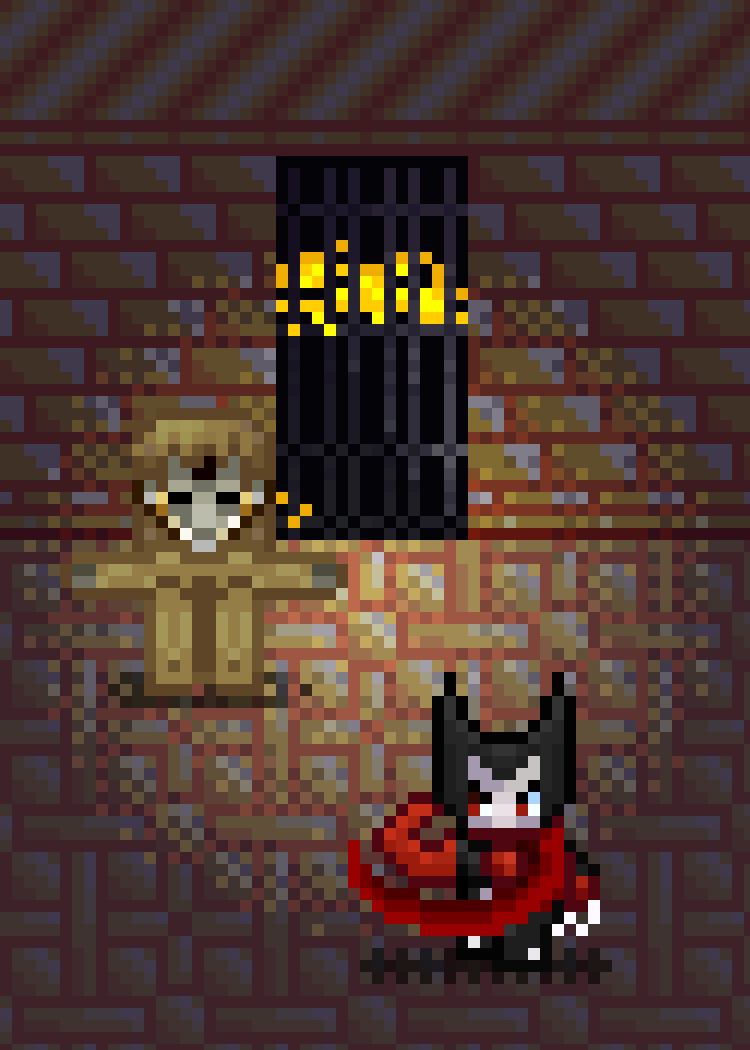
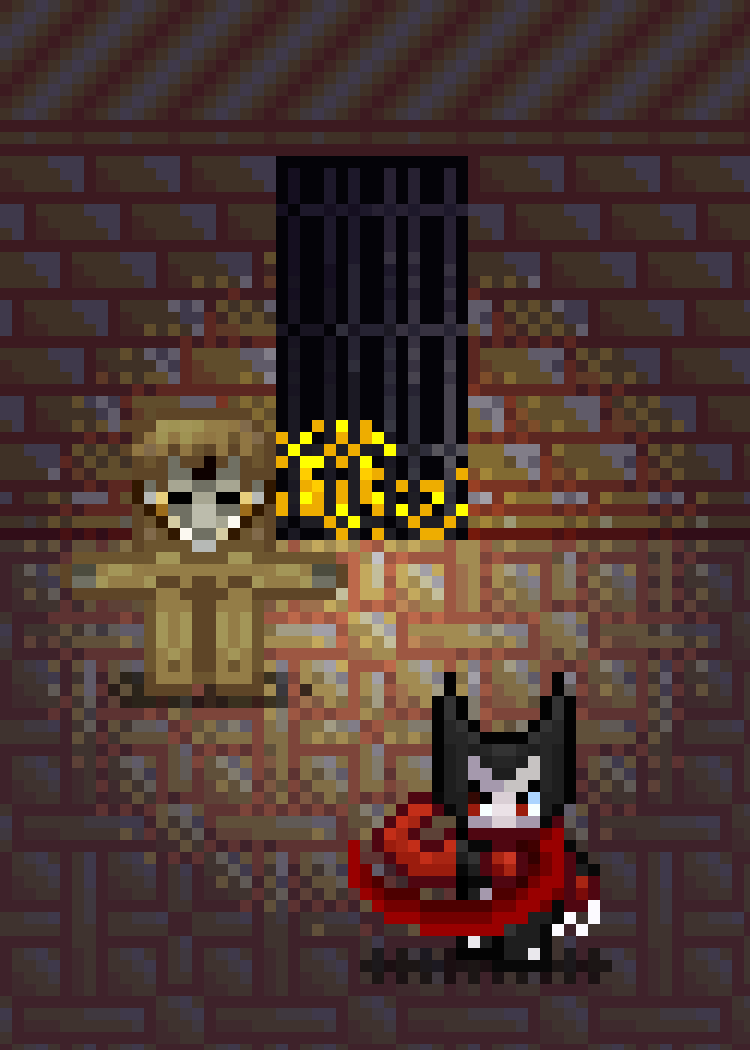
Runde 6: Gegner-Sleeves Zwischenstand
Claude-Session: https://claude.ai/code/session_01TEnvTzH2xD44R6Unjv7vDo

Changed region(s): [[0.368, 0.3962, 0.6133, 0.5181], [0.368, 0.2133, 0.644, 0.3352], [0.6133, 0.4267, 0.644, 0.4571]]

diff --git a/data/sleeve-proposals/runde6/generator/s25_initiation_rite.py b/data/sleeve-proposals/runde6/generator/s25_initiation_rite.py
@@ -1,32 +1,83 @@
 # -*- coding: utf-8 -*-
 """25 Initiation Rite – Gegner „Join our Cult!“ (sample-Structure Deck Join our Cult), Held: Klaus, the Cult Leader.
 
-Idee (Porträt/Ruhemoment im Kultkeller): Klaus – der Kapuzenmann mit blauem Haar, rotem Auge und erhobenem
-Opferdolch – steht groß in der Mitte seines Kellergewölbes, vor ihm kniet der braunhaarige Neuling seiner
-Base-Karte („Join our Cult!“). Ringsum stehen seine Kultisten in schwarzen Kutten, an der Wand lodern zwei Fackeln,
-rechts liegt das Buch auf dem Lesepult. Ein fahles rotes Glühen steigt unter den beiden aus dem Boden
-(Decay Magic, ohne Pentagramm), sonst liegt das Gewölbe im Dunkeln.
+Idee (Porträt-Close-up über der Zeremonie): Aus dem Dunkel über seinem Kultkeller erhebt sich Klaus groß als
+Brustbild – Kapuze, blaues Haar, rotes Auge, erhobener Opferdolch –, links und rechts von ihm lodern die zwei
+Wandfackeln. Klein darunter auf dem Steinboden des Gewölbes kniet der braunhaarige Neuling seiner Base-Karte in
+einem fahlen roten Decay-Glühen („Join our Cult!“), flankiert von zwei gleich aufgestellten Reihen seiner
+Kultisten in schwarzen Kutten. Kein Pentagramm.
 
 Quellen (MotiveGrailWar.xcf):
-  Ebene 526 „Kultisten“, rechte Gruppe (Box x 279–297, y 123–154): Klaus (Kapuze, Dolch) mit dem knienden
-      Neuling – genau die Figurengruppe der Base-Karte „Klaus, the Cult Leader“ (Kartenszene Sichtbar #48 = Ebene 738,
-      Lage 222,66; die Karte zeigt diese Gruppe weichgezeichnet und vergrößert, daher kein Pixelvergleich möglich,
-      Form/Farben/Anordnung stimmen überein). Derselbe Kapuzenkopf erscheint auf „Clausss, the No-Nonsense Cultist“.
-  Ebene 532 „Ebene #145“ – Kultkeller mit Fackeln, Lesepult und fünf Kultisten (Ausschnitt x 228–353, y 48–223);
-      der Ritualkreis samt Figuren in der Mitte (x 268–326, y 125–186) wurde mit der Bodenkachel des Gewölbes
-      (16×16, x 282–298, y 108–124, periodisch ausgerichtet) übermalt.
-Selbst gezeichnet: Abdunklung (Decke/Vordermauer ins Dunkel), Fackelschein, rotes Bodenglühen, Bodenschatten.
+  Ebene 526 „Kultisten“, rechte Gruppe (Box x 279–297, y 123–154) = die Figurengruppe der Base-Karte
+      „Klaus, the Cult Leader“ (Kartenszene Sichtbar #48 = Ebene 738, Lage 222,66; die Karte zeigt sie
+      weichgezeichnet/vergrößert). Auf der Karte existiert von Klaus nur der Kopf mit Kapuze, Dolch und Hand –
+      sein Körper steckt hinter dem Neuling (Ebenen geprüft: scene_layers/card_region_layers der Szene 738 liefern
+      keine weitere Klaus-Ebene). Daher:
+        – Klaus-Brustbild = Zeilen 0–17 der Gruppe ohne die Haarpixel des Neulings; die so frei werdenden Stellen
+          innerhalb der Kapuzen-Silhouette mit dem dunklen Kapuzeninneren (32,32,32) gefüllt und die Kutte in den
+          Kapuzenfarben (Umriss 25/Saum 82/Fläche 42) um 6 Zeilen nach unten fortgesetzt, unten ins Dunkel
+          aufgelöst (leichte Ergänzung, Farben und Pixelgröße des Sprites).
+        – Neuling = Zeilen 12–30 der Gruppe ohne Klaus-Pixel (vollständig, er steht vor Klaus).
+      Linke Gruppe derselben Ebene (Box x 249–263, y 116–171): drei Kultisten hintereinander; rechts gespiegelt und
+      mit umgefärbtem Haar als zweite Reihe (symmetrische Aufstellung).
+  Ebene 532 „Ebene #145“ – Kultkeller mit brennenden Fackeln (Ausschnitt x 234–359, y 26–201); Ritualkreis
+      (x 268–326, y 125–186) mit der Bodenkachel (16×16, x 282–298, y 108–124) übermalt, die fünf eingebauten
+      Kultisten per 16-px-Periode aus den Nachbarspalten übermalt.
+Selbst gezeichnet: Dunkelheit über dem Gewölbe, Fackelschein, rotes Bodenglühen, Bodenschatten.
 
 Skalierung:
-  Hintergrund (Gewölbe, Kultisten, Fackeln, Licht)          – 2× (Raster 125×175)
-  Vordergrund (Klaus + Neuling 18×31 → 90×155, Schatten)    – 5× (Raster 50×70)
+  Hintergrund (Gewölbe, Neuling, Kultistenreihen, Licht)   – 2× (Raster 125×175)
+  Vordergrund (Klaus-Brustbild 18×24 → 144×192)            – 8× (Raster 32×44)
 """
 import math
 import numpy as np
 from ekit_25_30 import *  # noqa
 
 GW = 'MotiveGrailWar'
-klaus = sprite('o25_klaus_group', GW, [526], box=(279, 123, 297, 154))
+grp = sprite('o25_klaus_group', GW, [526], box=(279, 123, 297, 154))        # 18×31
+cult = sprite('o25_cultists', GW, [526], box=(249, 116, 263, 171))          # 14×55
+
+NOVICE = {(48, 7, 0), (188, 89, 56), (89, 31, 0), (229, 130, 81), (147, 64, 23), (237, 155, 122),
+          (245, 171, 147), (48, 23, 0), (51, 0, 0)}
+
+
+def is_novice_px(p):
+    return tuple(int(v) for v in p[:3]) in NOVICE
+
+
+# ---------------- Klaus-Brustbild
+bust = np.zeros((24, 18, 4), np.uint8)
+for y in range(18):
+    for x in range(18):
+        p = grp[y, x]
+        if p[3] and not is_novice_px(p):
+            bust[y, x] = p
+HOOD_IN, OUT, RIM, FILL, FILL2 = (32, 32, 32), (25, 25, 25), (82, 82, 82), (42, 42, 42), (50, 50, 50)
+for y in range(12, 18):                          # Löcher (Haar des Neulings) innerhalb der Kapuze füllen
+    xs = [x for x in range(18) if bust[y, x, 3]]
+    lo = 2 if y >= 16 else min(xs)
+    for x in range(lo, 17 if y >= 13 else max(xs)):
+        if not bust[y, x, 3]:
+            bust[y, x] = (*HOOD_IN, 255)
+for y in range(18, 24):                          # Kutte: Schultern nach unten fortgesetzt
+    lo, hi = max(0, 2 - (y - 17)), 17
+    for x in range(lo, hi + 1):
+        c = FILL if (x + y) % 4 else FILL2
+        if x == lo or x == hi: c = OUT
+        elif x == lo + 1: c = RIM
+        bust[y, x] = (*c, 255)
+for y in range(19, 24):                          # unten ins Dunkel auflösen (gedithert)
+    for x in range(18):
+        if bay(x, y) < (y - 18) / 5.5:
+            bust[y, x, 3] = 0
+
+# ---------------- Neuling (kniend)
+novice = np.zeros((19, 18, 4), np.uint8)
+for y in range(12, 31):
+    for x in range(18):
+        p = grp[y, x]
+        if p[3] and (y >= 18 or is_novice_px(p)):
+            novice[y - 12, x] = p
 
 # ================================================================ 2×: Kultkeller
 hall = layer(GW, 532).copy()
@@ -34,53 +85,67 @@ tile = hall[108:124, 282:298].copy()
 for y in range(125, 186):
     for x in range(268, 326):
         hall[y, x] = tile[(y - 108) % 16, (x - 282) % 16]
-X0, Y0 = 228, 48
+boxes = [((246, 112, 266, 142), (16, 32, -16)), ((230, 126, 250, 160), (16, 32, 48)),
+         ((325, 106, 347, 174), (-16, -32, -48))]
+M = np.zeros(hall.shape[:2], bool)
+for (x0, y0, x1, y1), _ in boxes: M[y0:y1, x0:x1] = True
+src = hall.copy()
+for (x0, y0, x1, y1), dxs in boxes:
+    for y in range(y0, y1):
+        for x in range(x0, x1):
+            for dx in dxs:
+                if not M[y, x + dx]:
+                    hall[y, x] = src[y, x + dx]; break
+X0, Y0 = 234, 26
 bw, bh = grid(2)
 bg = hall[Y0:Y0 + bh, X0:X0 + bw].copy()
 bg[..., 3] = 255
-# Fackeln (Flammen) und Klaus' Standort in 2×-Rasterkoordinaten
-TORCH = [((256 - X0), (96 - Y0)), ((336 - X0), (96 - Y0))]
-KX, KY = 62.5, 131                    # Fußpunkt der Gruppe (Canvas 125, 262)
-rgb = bg[..., :3].astype(float)
-out = np.zeros_like(rgb)
+TORCH = [(256 - X0, 96 - Y0), (336 - X0, 96 - Y0)]
+NX, NY = 62.5, 142                 # Fußpunkt des Neulings (Canvas 125, 284)
+out = bg[..., :3].astype(float)
 for y in range(bh):
     for x in range(bw):
-        c = rgb[y, x]
-        # Grundabdunklung, Fackelschein (warm), rotes Glühen um Klaus
-        lt = 0.42
+        lt = 0.4
         for tx, ty in TORCH:
-            d = math.hypot((x + .5 - tx) / 30, (y + .5 - ty) / 34)
+            d = math.hypot((x + .5 - tx) / 28, (y + .5 - ty) / 32)
             lt += 0.5 * math.floor(max(0, 1 - d) ** 1.3 * 4 + bay(x, y)) / 4
-        d = math.hypot((x + .5 - KX) / 40, (y + .5 - (KY - 18)) / 44)
-        rg = math.floor(max(0, 1 - d) ** 1.2 * 4 + bay(x, y)) / 4
-        c = c * min(lt, 1.0) + np.array([130, 10, 18]) * rg * .6
-        out[y, x] = c
+        d = math.hypot((x + .5 - NX) / 30, (y + .5 - (NY - 8)) / 22)
+        rg = math.floor(max(0, 1 - d) ** 1.1 * 4 + bay(x, y)) / 4
+        c = out[y, x] * min(lt, 1.0) + np.array([140, 10, 18]) * rg * .6
+        top = max(0.0, min(1.0, (46 - y) / 14))            # Dunkel über dem Gewölbe
+        q = math.floor(top * 4 + bay(x, y)) / 4
+        out[y, x] = c * (1 - q) + np.array([5, 3, 8]) * q
 bg[..., :3] = out.clip(0, 255).astype(np.uint8)
-# Flammen selbst nicht abdunkeln (Originalpixel der Fackeln zurück)
-for tx, ty in TORCH:
+for tx, ty in TORCH:                                       # Fackelflammen in Originalfarbe
     for y in range(ty - 8, ty + 3):
         for x in range(tx - 6, tx + 6):
-            src = hall[Y0 + y, X0 + x, :3].astype(int)
-            if src[0] > 180 and src[0] > src[2] + 60:
-                bg[y, x, :3] = src
+            s_ = hall[Y0 + y, X0 + x, :3].astype(int)
+            if s_[0] > 180 and s_[0] > s_[2] + 60:
+                bg[y, x, :3] = s_
 
-# Decke und Vordergrund-Mauer (fremde Nachbarräume des Kellerplans) ins Dunkel ziehen
-for y in range(bh):
-    t = max(0.0, (30 - y) / 12) if y < 30 else max(0.0, (y - 154) / 14)
-    for x in range(bw):
-        q = min(1.0, math.floor(min(t, 1) * 4 + bay(x, y)) / 4)
-        if q > 0:
-            bg[y, x, :3] = (bg[y, x, :3] * (1 - q) + np.array([6, 4, 8]) * q).astype(np.uint8)
 
-# ================================================================ 5×: Klaus mit Neuling
-fw, fh = grid(5)                         # 50×70
+def shadow(a, cx, y, w):
+    for x in range(int(cx - w / 2), int(cx + w / 2) + 1):
+        if bay(x, y) < .7: setp(a, x, y, (14, 6, 10), 170)
+
+
+# Neuling in der Mitte, zwei Kultistenreihen symmetrisch (rechts gespiegelt, Haar umgefärbt)
+shadow(bg, NX, NY, 16)
+put(bg, novice, int(NX - 9), NY - novice.shape[0] + 1)
+cult_r = flip(cult)
+hair = np.zeros(cult_r.shape[:2], bool)
+hsv = cult_r[..., :3].astype(int)
+hair = (hsv[..., 0] > hsv[..., 2] + 40) & (cult_r[..., 3] > 0)        # warme Töne = Haar/Haut
+skin = (hsv[..., 0] > 200) & (hsv[..., 1] > 150)
+cult_r = hsv_shift(cult_r, dh=-25, ds=.8, dv=.8, mask=hair & ~skin)
+CY = 152                                                     # Fußzeile der Reihen (Canvas 304)
+for cx, s in ((34, cult), (125 - 34, cult_r)):
+    shadow(bg, cx, CY, 12)
+    put(bg, s, int(cx - s.shape[1] / 2), CY - s.shape[0] + 1)
+
+# ================================================================ 8×: Klaus
+fw, fh = grid(8)                                           # 32×44
 fg = rgba(fw, fh)
-GX = 25 - klaus.shape[1] // 2            # mittig (Canvas 80–170)
-GB = 52                                  # unterste Zeile (Canvas 260–265)
-for x in range(GX + 2, GX + klaus.shape[1] - 2):
-    for dy in (0, 1):
-        if bay(x, GB + dy) < (.75 if dy == 0 else .35):
-            setp(fg, x, GB + dy, (18, 4, 8), 170)
-put(fg, klaus, GX, GB - klaus.shape[0] + 1)
+put(fg, bust, 16 - 9, 3)                                   # Canvas x 56–200, y 24–216
 
-print(finish([(bg, 2), (fg, 5)], '25_initiation_rite.png'))
+print(finish([(bg, 2), (fg, 8)], '25_initiation_rite.png'))

diff --git a/data/sleeve-proposals/runde6/generator/s35_pyre_of_the_warband.py b/data/sleeve-proposals/runde6/generator/s35_pyre_of_the_warband.py
@@ -3,7 +3,7 @@
 the Chaorc War Chief (Base).
 
 Idee: Nacht im Krater des Chaorc-Lagers (ORKLAGER seiner Kartenszene). Ganz vorn steht Calamitusk groß und vom
-Feuer hinter ihm rot umrandet; direkt hinter ihm ist sein Kriegsbanner mit dem Flammenauge in den Boden gerammt
+Feuer hinter ihm rot umrandet; links neben/hinter ihm ist sein Kriegsbanner mit dem Flammenauge in den Boden gerammt
 (auf der Heldenkarte hält er es – hier steht es hinter ihm, damit er selbst das Hauptmotiv bleibt). Weit hinten im
 Krater lodert das große Opferfeuer (Pyre Grill Master), links davon ein rot vermummter Chaorc, rechts Asriel, the
 Sapling Sacrificer (Cover-Karte) mit blutigem Opfermesser – alle mit Bodenschatten im Feuerschein. Opfer bringen,
@@ -13,7 +13,8 @@ Quellen:
   MotiveHawaii.xcf Ebene 137 „Calamitustk-Kopie“ – Base-Calamitusk, geprüft gegen Szene 132 „Sichtbar #17“
                    (Kartenbild, Lage 136,105; 11 px Abweichung nur am Bannerstab, der dort vor seiner Hand liegt);
                    138 „Calamitustk“ weicht in 152 px ab (nicht verwendet). Ebene 133 „Ebene #53“ – sein Banner
-                   (Querstange im Kartenbild vom Kartenrand verdeckt), hier einzeln hinter ihm aufgepflanzt.
+                   (Querstange im Kartenbild vom Kartenrand verdeckt), hier einzeln links hinter ihm aufgepflanzt; die Lücke im
+                   Stab (dort lag seine Hand) mit der Stabzeile darüber geschlossen.
                    Ebene 123 (Flammen) + 130 (Scheitholz-Kreuz, rechter Teil) – Lagerfeuer der Pyre-Grill-Karte.
                    Ebene 129 „Ebene #60“ – rot vermummter Chaorc. Ebene 269 „Ebene #4“ – Kachel Lagerboden (16×16)
                    und Kraterhang (16×16).
@@ -34,7 +35,8 @@ H = 'MotiveHawaii'
 rnd = random.Random(35)
 
 cala = sprite('o35_calamitusk_body', H, [137])                 # 22×21
-banner = sprite('o35_banner', H, [133])                          # 36×43
+banner = sprite('o35_banner', H, [133]).copy()                   # 36×43
+banner[36] = banner[35]            # Lücke im Stab, wo auf der Karte seine Hand lag, mit dem Stab darüber geschlossen
 def _pyre():
     logs = layer(H, 130).copy(); logs[:, :150] = 0                # nur das Scheitholz-Kreuz unter dem Feuer
     a = xcfkit.over(logs, layer(H, 123))                           # Flammen (123) liegen über dem Holz (130)
@@ -77,7 +79,7 @@ for x in range(bw):                                              # Hangfuß
 PX, PB = 62, 63                                                  # Feuer-Mitte (Spalte), Fußzeile (2×) → y 126
 glow(bg, PX, PB - 18, 62, (255, 120, 40), 0.5, ry=44)
 glow(bg, PX, PB + 6, 58, (255, 150, 60), 0.38, ry=34)
-glow(bg, 62.5, 150, 46, (200, 90, 40), 0.3, ry=22)              # Feuerlicht auf dem Boden um Calamitusk
+glow(bg, 68, 150, 46, (200, 90, 40), 0.3, ry=22)              # Feuerlicht auf dem Boden um Calamitusk
 shade_ellipse(bg, PX, PB - 0.5, 24, 2.4, 0.5)
 put(bg, pyre, PX - pyre.shape[1] // 2, PB - pyre.shape[0])
 # Chaorc links, Asriel rechts am Feuer, mit Schatten vom Feuer weg
@@ -89,11 +91,11 @@ for s_, cx, dx in ((chaorc, 28, -3), (asriel, 97, 3)):
 # ---------------- Mittelgrund 3× (84×117): aufgepflanztes Banner -------------------------------------------------
 mw, mh = grid(3)
 mg = rgba(mw, mh)
-BB = 84                                                           # Stabfuß (3×) → y 252, hinter Calamitusk
-bx = (mw - banner.shape[1]) // 2 + 3
+BB = 83                                                           # Stabfuß (3×) → y 249, links neben/hinter Calamitusk
+bx = 3                                                            # Stab bei x ≈ 62
 for y in range(BB - 1, BB + 2):                                   # Schatten am Stabfuß
-    for x in range(bx + 2, bx + 14):
-        d = ((x + .5 - bx - 7.5) / 6) ** 2 + ((y + .5 - BB) / 1.3) ** 2
+    for x in range(bx + 12, bx + 24):
+        d = ((x + .5 - bx - 18) / 5) ** 2 + ((y + .5 - BB) / 1.3) ** 2
         if d < 1: mg[y, x] = (0, 0, 0, 110)
 put(mg, mul(banner, (0.92, 0.88, 0.86)), bx, BB - banner.shape[0] + 1)
 
@@ -103,8 +105,8 @@ fg = rgba(fw, fh)
 CF = 55                                                           # Füße → y 330
 CX = (fw - cala.shape[1]) // 2
 for y in range(CF - 1, CF + 1):                                   # Bodenschatten (6×), nach vorn geworfen
-    for x in range(CX - 2, CX + cala.shape[1] + 3):
-        d = ((x + .5 - CX - cala.shape[1] / 2) / (cala.shape[1] / 2 + 3)) ** 2 + ((y + .5 - CF + 0.3) / 1.2) ** 2
+    for x in range(CX - 1, CX + cala.shape[1] + 1):
+        d = ((x + .5 - CX - cala.shape[1] / 2) / (cala.shape[1] / 2 + 1)) ** 2 + ((y + .5 - CF + 0.3) / 1.2) ** 2
         if d < 1: fg[y, x] = (0, 0, 0, 120)
 cl = mul(cala, (1.3, 1.18, 1.12), (14, 6, 0))                     # im Feuerschein etwas aufgehellt
 m = cl[..., 3] > 0
@@ -117,7 +119,7 @@ put(fg, cl, CX, CF - cala.shape[0])
 st = Stack()
 st.add(bg, 2)
 st.add(mg, 3)
-st.add(fg, 6, ox=-1)
+st.add(fg, 6, ox=11)
 save(st.canvas(), '35_pyre_of_the_warband.png')
 if __name__ == '__main__':
     print(preview('35_pyre_of_the_warband.png', 'industrial', 'iron', 'lava', 'onyx'))

diff --git a/data/sleeve-proposals/runde6/generator/s22_vengeful_vigil.py b/data/sleeve-proposals/runde6/generator/s22_vengeful_vigil.py
@@ -15,7 +15,7 @@ Quellen:
                             Ebene 57 „Zhu“ (stehender Zhu, 100 % in Szene 55 „Sichtbar #12“).
                             Ebene 37 „Ebene #41“ (Wächterhof: Mauer mit Gittertor, Pflaster; Ausschnitt
                             x 121–184, y 3–91, ohne den „FPS“-Schriftzug).
-  MotiveDeepsea.xcf         Ebene 196 „Deepsea Treasure“ (nur die Goldpixel, ohne Truhe) – hinter den Gitterstäben.
+  MotiveDeepsea.xcf         Ebene 196 „Deepsea Treasure“ (nur der Goldüberlauf unten links, 16×10) – als Goldhaufen hinter den Gitterstäben.
 Selbst gezeichnet: Nachtabdunkelung mit warmem Torschein (geordnetes Dithering), Schatten der Figuren.
 Skalierung: alles 4× (Raster 63×88) – Hof, Tor, Schatz, Zhu und Mao im selben Spielmaßstab.
 """
@@ -38,11 +38,13 @@ court[..., 3] = 255
 GX0, GX1, GY0, GY1 = 144 - X0, 160 - X0, 15 - Y0, 48 - Y0      # Gittertor (Raster)
 WALL_B = 47 - Y0                                                # Mauerfuß
 
-# Schatz hinter dem Gitter: nur die schwarzen Innenflächen des Tores, unterer Teil
+# Schatz hinter dem Gitter: Goldhaufen (unterer linker Goldüberlauf der Schatztruhe, 16×10) liegt am Boden
 tre = crop_alpha(layer(BD, 196))
-th, tw = tre.shape[:2]
-tx = (GX0 + GX1) // 2 - tw // 2
-ty = GY1 - th + 1                        # Goldhaufen liegt auf dem Boden hinter dem Gitter
+heap = tre[24:34, 1:17].copy()
+hc = heap[..., :3].astype(int)
+heap[..., 3] = np.where((heap[..., 3] > 0) & (hc[..., 0] > 140) & (hc[..., 2] < 120), 255, 0)
+hh, hw = heap.shape[:2]
+tx, ty = GX0, GY1 - hh
 inner = np.zeros((GH, GW), bool)
 for y in range(GY0, GY1):
     for x in range(GX0, GX1):
@@ -52,9 +54,8 @@ for y in range(GH):
     for x in range(GW):
         if inner[y, x]:
             sy, sx = y - ty, x - tx
-            c = tre[sy, sx] if (0 <= sy < th and 0 <= sx < tw) else None
-            if c is not None and c[3] > 0 and int(c[0]) > 140 and int(c[2]) < 120:   # nur Gold, ohne Truhe
-                court[y, x, :3] = c[:3]
+            if 0 <= sy < hh and 0 <= sx < hw and heap[sy, sx, 3] > 0:
+                court[y, x, :3] = heap[sy, sx, :3]
             else:
                 court[y, x, :3] = (4, 3, 8)
 

diff --git a/data/sleeve-proposals/runde6/generator/s05_field_study.py b/data/sleeve-proposals/runde6/generator/s05_field_study.py
@@ -36,7 +36,7 @@ W3, H3 = 84, 117
 MX, MY = 60, 262
 p3 = isle[MY:MY + H3, MX:MX + W3].copy()
 p3[..., 3] = 255
-BX, BY = 7, 9
+BX, BY = 16, 16                                              # gespiegelt: Hals nach links oben, Blick zu Kit
 # Wald etwas abdunkeln, die Lichtung bleibt hell (Kit hebt sich ab)
 c = p3[..., :3].astype(int)
 forest = (c[..., 1] < 120) | (c[..., 0] > c[..., 1])
@@ -54,10 +54,10 @@ def footprint(cx, cy):
         p3[cy - 4, x, :3] = mix(p3[cy - 4, x, :3], RIM, 0.5)
     for dx in (-3, 0, 3):
         p3[cy - 4, cx + dx, :3] = MUD2; p3[cy - 5, cx + dx, :3] = MUD
-for (x, y) in [(60, 108), (52, 97), (61, 86), (53, 75)]:
+for (x, y) in [(62, 110), (55, 99), (63, 88), (56, 78)]:
     footprint(x, y)
-shadow_ellipse(p3, BX + 36, BY + brach.shape[0] - 1, 26, 3.2, a=0.45)
-put(p3, brach, BX, BY)
+shadow_ellipse(p3, BX + 36, BY + brach.shape[0] - 1, 24, 3.0, a=0.45)
+put(p3, brach[:, ::-1], BX, BY)
 # Bodenschatten unter Kit (Füße bei 250er-y 305 → 3×-Reihe 102)
 shadow_ellipse(p3, 34.5, 102, 10, 1.8, a=0.4)
 cv = Canvas(250, 350)

diff --git a/data/sleeve-proposals/runde6/notes_A.md b/data/sleeve-proposals/runde6/notes_A.md
@@ -1,7 +1,7 @@
 # Notizen Block A (Runde 6, Gegner 01–06)
 01 | Searing Grace | Heal Burn | Nao, the Barrier Priestess | Porträt/Ruhemoment: Nao (Base, goldener Stab) steht groß im weißen Kern ihres Barrierenscheins, hinter ihr breiten sich die Feuerflügel ihrer eigenen Kartenszene aus; Hintergrund ist der goldene Tempel ihrer Karte (Ziegelwand mit zwei rankenbewachsenen Steinmasken, Stachelreihe, Flechtboden); grüne Heilkreuze steigen auf und verfärben sich zur Flamme hin zu Glut – Heilung wird Schaden | Tempel, Masken, Feuerflügel, Schein, Heilkreuze 2× (125×175); Nao 5× (50×70) | Motive: 477 „NAO-Kopie“ (Nao-Ausschnitt, gegen Sichtbar #42/Ebene 99 Lage 278,193 geprüft; Kopf/Oberkörper pixelgleich, Unterkörper im Kartenbild vom Glühen überdeckt), 475+476 (Feuerflügel der Kartenszene), 471 (Schein als Vorlage), 1080 „Schatzgrotte-Kopie“ (Kacheln, Masken) | Rahmen: ornate/gold/ruby/topaz
 02 | Blast Radius | Suicide Bombers | Bomb Berserker Bartas | Action: Bartas steht mit verschränkten Armen unbeeindruckt vorn auf dem Lavastein, hinter ihm blüht eine gewaltige Explosion auf; Lavaband am Horizont, flache Druckwelle, fliegende Splitter, sein Schatten fällt im Gegenlicht lang nach vorn | Himmel, Explosion, Boden, Splitter 3× (84×117); Bartas + Schatten 6× (42×59) | Motive: 1476 „Bartas“ (= Sichtbar #267/Ebene 129, 100 %), 1481 „Explosion“ (in Glutpalette umgefärbt), 1477/1475 (Lavastein-/Lavakachel, Splitter aus Bartas' Kartenszene) | Rahmen: industrial/iron/lava
-03 | Tainted Fountain | Venom Swamp | Zsos'Ssar, the Serpent Warlord | Erzählszene zu Poisoned Well: nachts auf dem Dorfplatz von Deri steht Zsos'Ssar mit Hellebarde vor dem Brunnenbecken; sein Schlangengewimmel gleitet über den Beckenrand ins Wasser, das sich von dort aus violett färbt (hinten rechts noch blau), Giftdunst und violetter Schein, der Platz versinkt im Dunkel | Dorfplatz, Becken, Schlangen, Dunst 2× (125×175); Zsos'Ssar 5× (50×70) | Motive: 521 „Snecko“ (= Base-Zsos'Ssar, Sichtbar #148/Ebene 405, 100 %), 515 (Schlangengewimmel seiner Kartenszene); MotiveDeri: 178 „Stadt“ + 179 „Ebene #40“ (vergiftete Fassung = Kartenbild Poisoned Well), eingebackene Figuren mit Pflaster übermalt | Rahmen: twist/bronze/emerald/amethyst
-04 | Shield Shrine | Bamboo Warrior | Xiong, the Bamboo Guardian | Schaukasten/Ehrenwache: Xiong (Base, Bambusstab quer) hält Wache in der Palasthalle der Bamboo-Shield-Karte; hinter ihm hängt zwischen roten Vorhängen vor den Drachenreliefs sein Bamboo Shield im Lichtschein (Karten und Schild kehren aus dem Ablagestapel zurück) – bewusst anders als „Bamboo Sentinel“ (Bambushain) | Halle, Vorhänge, Schild, Boden 3× (84×117); Xiong 5× (50×70) | MotiveChina: 5 „Xiong“ (= Sichtbar #4, 100 %), 3 (Vorhänge), 16 „Bamboo Shield“, 24 „Palace #4“ (Reliefs), 26 „Palace #3“ (Ziegel) – aus Sichtbar #5 (Kartenbild Bamboo Shield) | Rahmen: bamboo/bamboo/jade
-05 | Field Study | Big Stomp! | Kit, the Shark Researcher | Größenkontrast/Spurensuche: Kit (Hut, Laborkittel) steht auf einer Lichtung der Gigantisaurier-Insel im Kartenstil der Gigantisaur-Karten; hinter ihm stapft der riesige Brachion durch den Wald, dessen Trittsiegel quer über die Lichtung führen | Insel, Brachion, Trittsiegel 3× (84×117); Kit 5× (50×70) | MotiveDeepsea: 38 (Hut) + 39 „Kit-Kopie“ (= Kartenbild Sichtbar #37, sitzend, offener Mund), Beine ab Hüfte aus 40 „Kit“ (stehend; im Kartenbild vom Stuhl verdeckt); MotiveGrailWar: 503 „Brachion“ (= Sichtbar #61, 100 %), 515 (Inselkarte) | Rahmen: wave/wood/amber
-06 | Crimson Campaign | Bloody King Zi | Timeless King Zi | Draufsicht/Kriegskarte im Stil seiner Base-Karte: Zi steht wie eine Königsfigur auf einer Lichtung seiner verschneiten Insel im blutroten Abendlicht; hinter ihm seine goldenen Heeresmarken, vor ihm am Waldrand die blutrot umgefärbten Marken des Gegners | Karte, Marken, Schatten 2× (125×175); Zi 5× (50×70) | MotiveGrailWar: 487 „Zi“ (Sichtbar #169/Ebene 30, 99 %), 483 „Zi #3“ (Speermarken der Kartenszene, 2× umgefärbt), 510 „Ebene #386“ (verschneite Inselkarte, Berge links oben durch Schnee ersetzt, rötlich getönt) | Rahmen: cosmic/ice/ruby/sapphire
+03 | Tainted Fountain | Venom Swamp | Zsos'Ssar, the Serpent Warlord | Poisoned Well (Cover) als zweiter Blickpunkt: abends auf dem Dorfplatz von Deri steht Zsos'Ssar groß mit Hellebarde vor dem nah herangeholten Brunnenbecken, dessen Wasser giftviolett leuchtet (vergiftete Fassung der Kartenszene); Giftblasen, Dunstschwaden, violetter Schein auf Rand und Pflaster, die Steinstatue ragt über ihm auf | Dorfplatz, Brunnen, Statue, Blasen, Dunst, Schein 3× (84×117); Zsos'Ssar 6× (42×59) | Motive: 521 „Snecko“ (= Base-Zsos'Ssar, Sichtbar #148/Ebene 405, 100 %); MotiveDeri: 179 „Ebene #40“ (Deri mit vergiftetem Brunnen = Kartenbild Poisoned Well), eingebackene Figuren und Wegweiser mit Pflaster übermalt | Rahmen: twist/bronze/emerald/amethyst
+04 | Shield Shrine | Bamboo Warrior | Xiong, the Bamboo Guardian | Wappenwand/Ehrenwache: Xiong (Base, Bambusstab quer) steht frei vor einer dunklen, rot lackierten Palastwand; über ihm hängt im Lichtschein sein Bamboo Shield vor dem brennenden Bamboo Staff (Cover), oben der rote Behang der Bamboo-Shield-Karte – bewusst anders als „Bamboo Sentinel“ (Bambushain) | Wand, Behang, Schild, Stab, Boden 3× (84×117); Xiong 5× (50×70) | MotiveChina: 5 „Xiong“ (= Sichtbar #4, 100 %), 12 „Bamboo Statt“ (brennender Stab, einmal gespiegelt dahinter), 3 (Vorhänge), 16 „Bamboo Shield“, 26 „Palace #3“ (Ziegel, dunkel); Lackwand, Goldleiste, Schein selbst gezeichnet | Rahmen: bamboo/bamboo/jade
+05 | Field Study | Big Stomp! | Kit, the Shark Researcher | Spurensuche: Kit (Hut, Laborkittel) steht auf einer Lichtung der Gigantisaurier-Insel (Kartenstil der Gigantisaur-Karten); hinter ihm steht der riesige Brachion mit den Füßen auf der Lichtung vor dem Waldrand und reckt den Hals über ihn, seine Trittsiegel führen quer über die Lichtung | Insel, Brachion (gespiegelt), Trittsiegel 3× (84×117); Kit 5× (50×70) | MotiveDeepsea: 38 (Hut) + 39 „Kit-Kopie“ (= Kartenbild Sichtbar #37, sitzend, offener Mund), Beine ab Hüfte aus 40 „Kit“ (stehend; im Kartenbild vom Stuhl verdeckt); MotiveGrailWar: 503 „Brachion“ (= Sichtbar #61, 100 %), 515 (Inselkarte) | Rahmen: wave/wood/amber
+06 | Crimson Campaign | Bloody King Zi | Timeless King Zi | Feldherr im blutroten Abendlicht: Zi steht groß auf dem verschneiten Schlachtfeld, hinter ihm seine Legion mit roten Helmbüschen und Speeren, flankiert von seinen zwei blau-goldenen Standarten; fern am Horizont erhebt sich Blood Rock (Cover) im roten Dunst | Himmel, Bergkamm, Blood Rock 1× (fern); Schneefeld, Legion, Standarten, Schatten 2× (125×175); Zi 6× (42×59) | MotiveGrailWar: 487 „Zi“ (Sichtbar #169/Ebene 30, 99 %), 485 „Zi #2“ (Standarten seiner Kartenszene), 214 „Legionäre“ (einzeln gesetzt), 476 (Schneefläche, rot getönt); MotiveDeepsea: 75 „Blood Rock“ (Mittelteil, im Dunst) | Rahmen: cosmic/ice/ruby/sapphire

diff --git a/data/sleeve-proposals/runde6/notes_C.md b/data/sleeve-proposals/runde6/notes_C.md
@@ -1,0 +1,8 @@
+# Notizen Block C (13–18)
+NN | English Name | Gegner | Held | Idee | Skalierung | Quellen | Rahmen: form/palette/stein[/stein2]
+13 | Phoenix Call | Cute Commando | Cute Annoyance Mini | Action, asymmetrisch: Mini (Base) schwebt groß als Kommandantin am blauen Moe-Himmel; hinter ihr stürzt auf ihr Kommando die Cute Phoenix (Coverkarte) als senkrechte Feuersäule auf den Säulenplatz der Relic-Insel – wie im Kartenbild „Cute Phoenix“; eine Flügel-Bunny und eine Cute Cat fliegen zum Einschlag (≠ Kitten Escort: kein Herz, keine Eskorte) | Himmel, Relic-Insel, Feuersäule, Phoenix, Schein 1×; Cute Bunny, Cute Cat 2×; Mini 5× (170×125) | MotiveMoe 497+498 (Base-Mini, = Sichtbar #124, 0 px), 420 (Cute Phoenix, = Sichtbar #94), 478 „Relic-Insel“, 429 (Cute Bunny), 492 (Cute Cat), 553 (Moe-Himmel); Feuersäule/Schein selbst gezeichnet | Rahmen: twist/gold/ruby/sapphire
+14 | Moonlit Waltz | Dance of the Butterflies | Beato, the Butterfly Witch | Spiegelung im Wasser: Beato (Base, goldene Flügel, Zwinkern) tanzt nachts über dem stillen Teich ihres Mondgartens im Ring ihrer kleinen türkisen Schmetterlinge; Blütenbüsche am Ufer, Mond mit Moonlight Butterfly; alles spiegelt sich mit Wellenlinien im Wasser | Himmel/Sterne 1×; Mond, Moonlight Butterfly, Ufer, Wasser 2×; Beato + Ring + Spiegelung 4× (136×104) | Motive 648 (Figur + Schmetterlinge) + 649 nur Flügelteil x274–304/y299–321 (= Sichtbar #120, 0 px), 625 (Moonlight Butterfly), 651 „Schachbrett“ (Busch, Blumen), MotiveBoons 73 (Mond); Himmel, Wasser, Spiegelung selbst | Rahmen: double/silver/amethyst/topaz
+15 | Red Tide | Deepsea Terror | Siphem, the Deepsea Demon | Heerführer in der Tiefsee: Siphem schwebt mit ausgebreiteten Flügeln im roten Licht, das von oben durchs Wasser fällt; unten zwischen zwei Deepsea Monstrosities stehen Witch, Werewolf und Pirate und blicken auf; aus jeder Kreatur steigt eine Kette roter Deepsea-Counter-Blasen zu ihm (Leadership/Decay) – kein Schloss, kein Cthulhu | Wasser/Lichtbahnen 1×; Grund, Kreaturen, Blasen 2×; Siphem 5× (180×155) | MotiveDeepsea 301 „Siphem“ + 300 rotes Randlicht (25 % wie in Sichtbar #107), 309 Witch, 329 Werewolf, 310 Pirate (nur Figur), 339 Monstrosity; Wasser, Lichtbahnen, Blasen selbst | Rahmen: wave/sea/ruby
+16 | Rift over Earth | Depths of the Cosmos | Argos, the Eye of the Cosmos | Kosmische Diagonale: Argos’ rote Schlitzpupille hängt wie ein Riss links oben im All, aus ihr strömen Analyzer-Sichelschiffe nach rechts unten zur Erde, über der ein Life-Searcher mit grünem Suchstrahl schwebt; links unten sammelt ein Gatherer Asteroiden (kein reines Riesenauge, keine Invader-Untertasse) | All, Sterne, Erde 1×; Schein, Flotte, Strahl, Asteroiden 2×; Argos 4× (92×216) | MotiveBoons 38 „Argos“, 34 (Analyzer), 22+23 (Life-Searcher + Strahl 45 %), 28+29 (Gatherer + Asteroiden), 80 (Erdkugel); Allverlauf, Sterne, Augenschein selbst | Rahmen: cosmic/cosmic/ruby/emerald
+17 | Glade of the Vanguard | Elven Vanguard | Maya, the Nature Fairy | Draufsicht wie ihre Karte: Maya schwebt in ihrer Rankenkrone über einer Waldlichtung; unten steht ihre Elven Vanguard – Elven Leader zwischen zwei Archers wie auf der Coverkarte – mit grünen Heilfunken (+50 HP), ringsum Laubbäume des Elfenwalds | Waldboden, Bäume, Blumen, Elfen, Funken 2×; Maya + Ranken 4× (132×184) | MotiveSteamDwarfs 11 „Maya #5“ (Teil x244–266/y441–461) + 9 „Maya #2“ Ranken (geprüft gegen Sichtbar #102); MotiveGrailWar 555 (Leader, Archer), 589 „Berserker Wald“ + 141 (Bäume, Boden, Blumen); Lichtfleck, Funken selbst | Rahmen: filigree/wood/emerald/jade
+18 | Sticky Fingers | Flying Sparks | Lilly, the Charming Infiltrator | Nächtliche Diebestour: vor dem Rathaus steht das Giebelfenster offen und leuchtet, zwei Sparkfly-Arbeiterinnen schleppen die funkelnde Schatztruhe heraus, die gekrönte Sparkfly Queen (Cover) wacht, vorn streckt Lilly (Base) frech die Zunge heraus – die Sparkflies sind ihre Komplizen (keine Wabe, keine Taverne) | Rathaus, Pflaster, Fensterlicht 1×; Sparkflies, Queen, Truhe, Funkeln, Flugschatten 2×; Lilly + Fußschatten 5× (90×125) | Motive 973 „Lilly“ (= Sichtbar #256, 0 px), 1386+1384 (Treasure Chest + Funkeln); MotiveRussia 160+158 (Worker, Flügel 70 %), 177+176+175 (Queen mit Krone); MotiveGrailWar 663 „Rathaus aussen“ (Ausschnitt ohne FPS-Anzeige/Passant); Nachtfärbung, Licht, Schatten selbst | Rahmen: moulding/bronze/amber/rose

diff --git a/data/sleeve-proposals/runde6/concepts.md b/data/sleeve-proposals/runde6/concepts.md
@@ -17,10 +17,10 @@
 24 | Afterimage | Transparenz/Dämmerung: Daiyo (Base, grüner Geist, ~73 % Deckkraft wie im Kartenbild, weißes Schwert) schwebt vor dem Pavillon der Kogarasu-Karte im Kirschblütenhain; links und rechts hinter ihm zwei blasse Nachbilder = Idej Projections; Blüten treiben (kein Projektor, kein Lichtkegel, kein Wasser)
 01 | Searing Grace | Porträt/Ruhemoment: Nao (Base, goldener Stab) steht groß in ihrem weißen Barrierenschein vor dem goldenen Tempel ihrer Karte, hinter ihr breitet sich der flammende Feuerflügel-Schein der Kartenszene aus; von unten steigen grüne Heilfunken auf und verglühen oben zu Glut (Heilung wird Schaden)
 02 | Blast Radius | Action: Bomb Berserker Bartas steht mit verschränkten Armen unbeeindruckt vorn auf dem Lavastein seiner Karte, während hinter ihm eine gewaltige Explosion (Explosion-Sprite) aufblüht; Gesteinsbrocken fliegen, links und rechts brennen die toten Bäume seiner Karte
-03 | Tainted Fountain | Erzählszene (Poisoned Well): nachts auf dem Dorfplatz von Deri steht Zsos'Ssar mit Hellebarde vorn auf dem Brunnenrand; aus seinem Schlangengewimmel gleiten Giftschlangen ins Becken, das Wasser färbt sich von seiner Seite her violett, Giftdunst steigt auf
-04 | Shield Shrine | Schaukasten/Ehrenwache: Xiong (Base, Bambusstab quer) hält Wache in der Palasthalle der Bamboo-Shield-Karte – hinter ihm zwischen roten Vorhängen und Drachenreliefs hängt der Bamboo Shield über dem steinernen Thron (Karten aus dem Ablagestapel zurückholen, Schild kehrt zurück)
-05 | Field Study | Größenkontrast/Spurensuche: Kit, der Hai-Forscher (Hut, Laborkittel), steht auf einer Lichtung der Gigantisaurier-Insel (Kartenstil der Gigantisaur-Karten); hinter ihm stapft der riesige Brachion durch den Wald, seine Trittsiegel führen quer über die Lichtung
-06 | Crimson Campaign | Draufsicht/Kriegskarte: Timeless King Zi steht wie eine Königsfigur mitten auf der verschneiten Landkarte seines Reichs (Kartenstil seiner Base-Karte), ringsum seine Heeresmarken (gekreuzte Speere) in Formation, ein blutroter Fluss zieht sich durch den Schnee
+03 | Tainted Fountain | Poisoned Well nah: Zsos'Ssar (6×) steht groß vor dem giftviolett leuchtenden Brunnenbecken von Deri, Giftblasen und Dunst, die Steinstatue ragt über ihm auf
+04 | Shield Shrine | Wappenwand/Ehrenwache: Xiong steht frei vor dunkler, rot lackierter Palastwand, über ihm Bamboo Shield vor dem brennenden Bamboo Staff (Cover), oben roter Behang
+05 | Field Study | Spurensuche: Kit auf einer Lichtung der Gigantisaurier-Insel, hinter ihm der Brachion mit den Füßen auf der Lichtung vor dem Waldrand, Trittsiegel quer über die Lichtung
+06 | Crimson Campaign | Feldherr im blutroten Abendlicht: Zi groß auf dem verschneiten Schlachtfeld, dahinter seine Legion mit Standarten, fern im Dunst Blood Rock
 07 | Bone Tide | Action mit Tiefenstaffel: Vacarn (Base, roter Nekromantie-Schein der Karte) steht groß vorn auf dem Felsboden seiner Kartenwelt, hinter ihm quillt sein Skelettheer (Death Knight, Mage, Reaper, Archer, Bone Dog, Skull Bat …) in Keilformation aus dem violetten Nebel der Schlucht auf den Betrachter zu – frontal statt von hinten, kein Friedhof (≠ Raise the Minions)
 08 | Launch Shaft | Stahlschacht im Labor ihrer Karte (Riffelblech, Zahnräder, Warnstreifen), frontal: Andras steigt mit ihren Arm-Schubflammen senkrecht auf, die Flammen lecken über die Schachtwände, oben öffnet sich die Luke zum Nachthimmel – der Mensch als Rakete
 09 | Caldera Dance | Luna Pele tanzt nachts auf einem Basaltfelsen mitten im Lavasee eines Kraters (Heart of the Mountain), links und rechts steigen ihre Flammensäulen aus der Lava (Dance of the Flame Pillars), die Kraterwände glühen, oben Rauch und Sterne – im Vulkan statt davor (≠ Luau)
